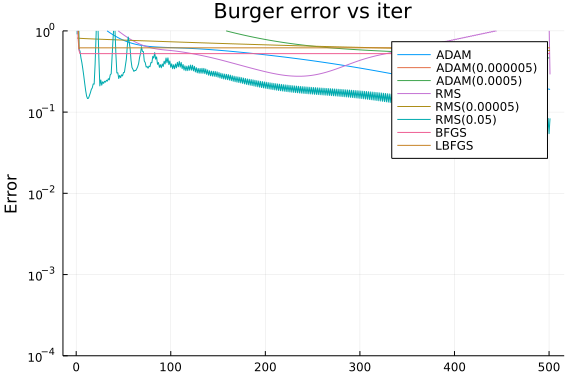
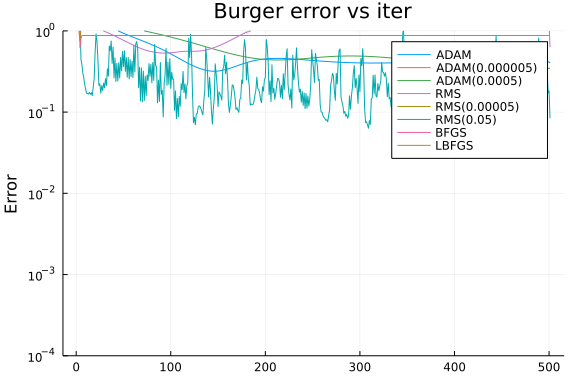
Automatic build\nPublished by build of: https://github.com/SciML/SciMLBenchmarks.jl/commit/61c047455ef7845709acad38f267d75462b74631

diff --git a/markdown/PINNOptimizers/burgers_equation.md b/markdown/PINNOptimizers/burgers_equation.md
@@ -60,7 +60,7 @@ function burgers(strategy, minimizer)
     domains = [x ∈ Interval(0.0, x_max),
         t ∈ Interval(0.0, t_max)]
 
-    chain = Lux.Chain(Lux.Dense(2, 16, Lux.σ), Lux.Dense(16, 16, Lux.σ), Lux.Dense(16, 1))
+    chain = Lux.Chain(Lux.Dense(2, 16, tanh), Lux.Dense(16, 16, tanh), Lux.Dense(16, 1))
     discretization = PhysicsInformedNN(chain, strategy)
 
     indvars = [x, t]   #physically independent variables
